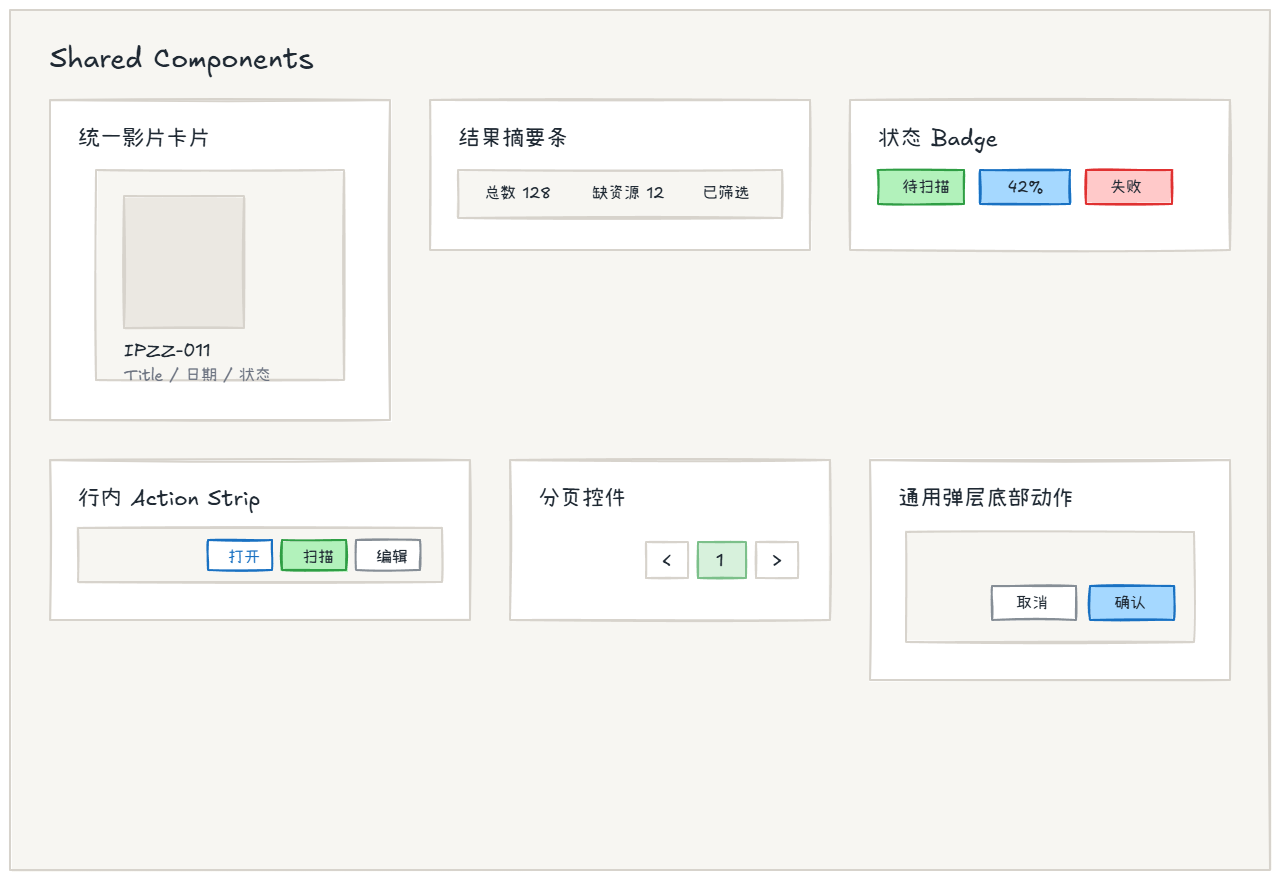
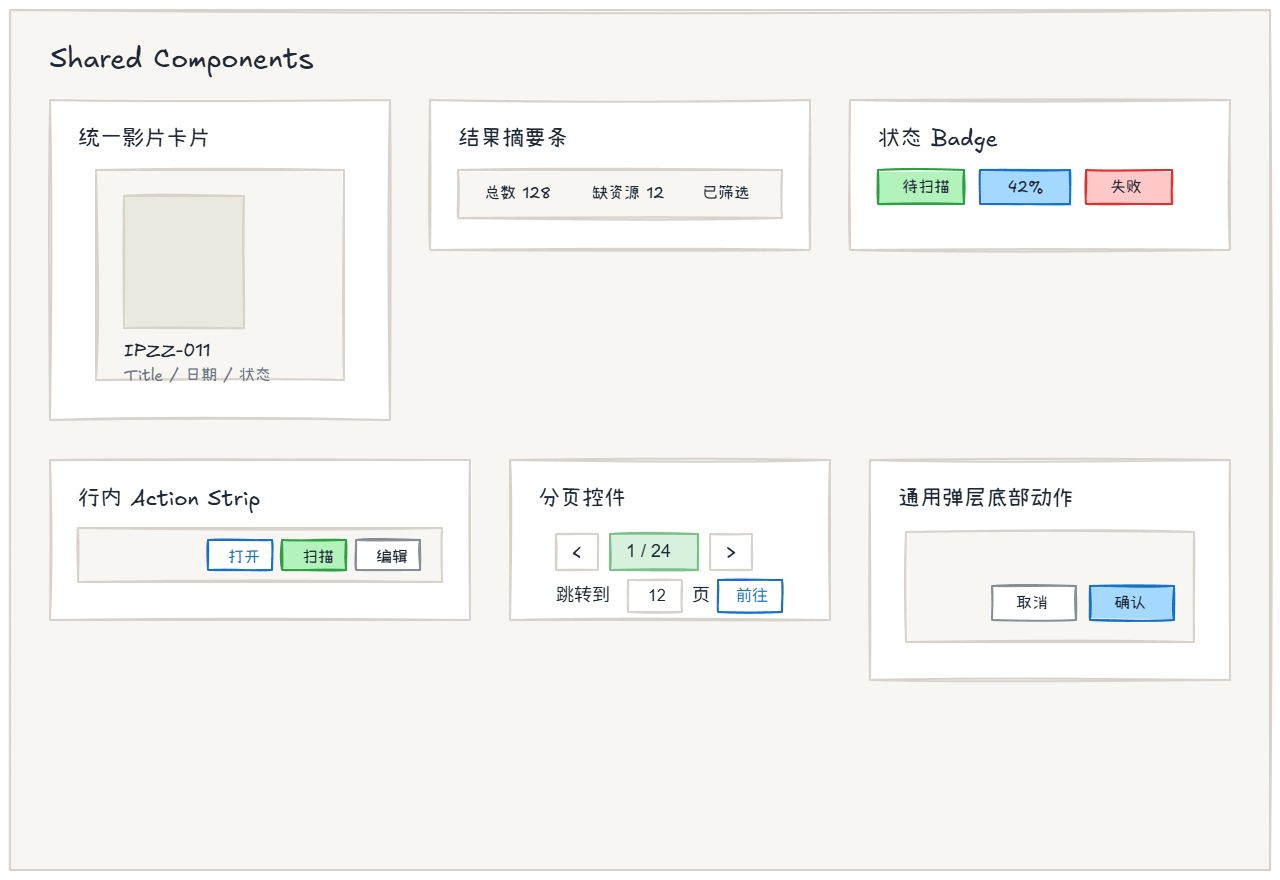
docs: expand pagination component spec

diff --git a/doc/UI/new/shared/shared-components.md b/doc/UI/new/shared/shared-components.md
@@ -121,11 +121,17 @@
 
 - 默认由：
   - 上一页
-  - 当前页号
+  - 当前页号 / 总页数
   - 下一页
+  - 跳转页输入框
+  - 跳转执行按钮
   组成。
 - 放置在结果区右下角。
-- 当前页号使用轻强调态。
+- 当前页号区域使用轻强调态，并固定显示为 `当前页 / 总页数`。
+- 跳转输入框只接受正整数页码，示意形态为：
+  - `跳转到 [12] 页`
+- 点击 `前往` 后切换到目标页，并同步刷新当前结果集。
+- 当输入页码小于 `1` 或大于总页数时，应阻止提交并保留当前页状态。
 - 分页状态应尽量写入当前路由或返回态，保证从详情页返回后恢复原上下文。
 
 ## 返回链路状态
